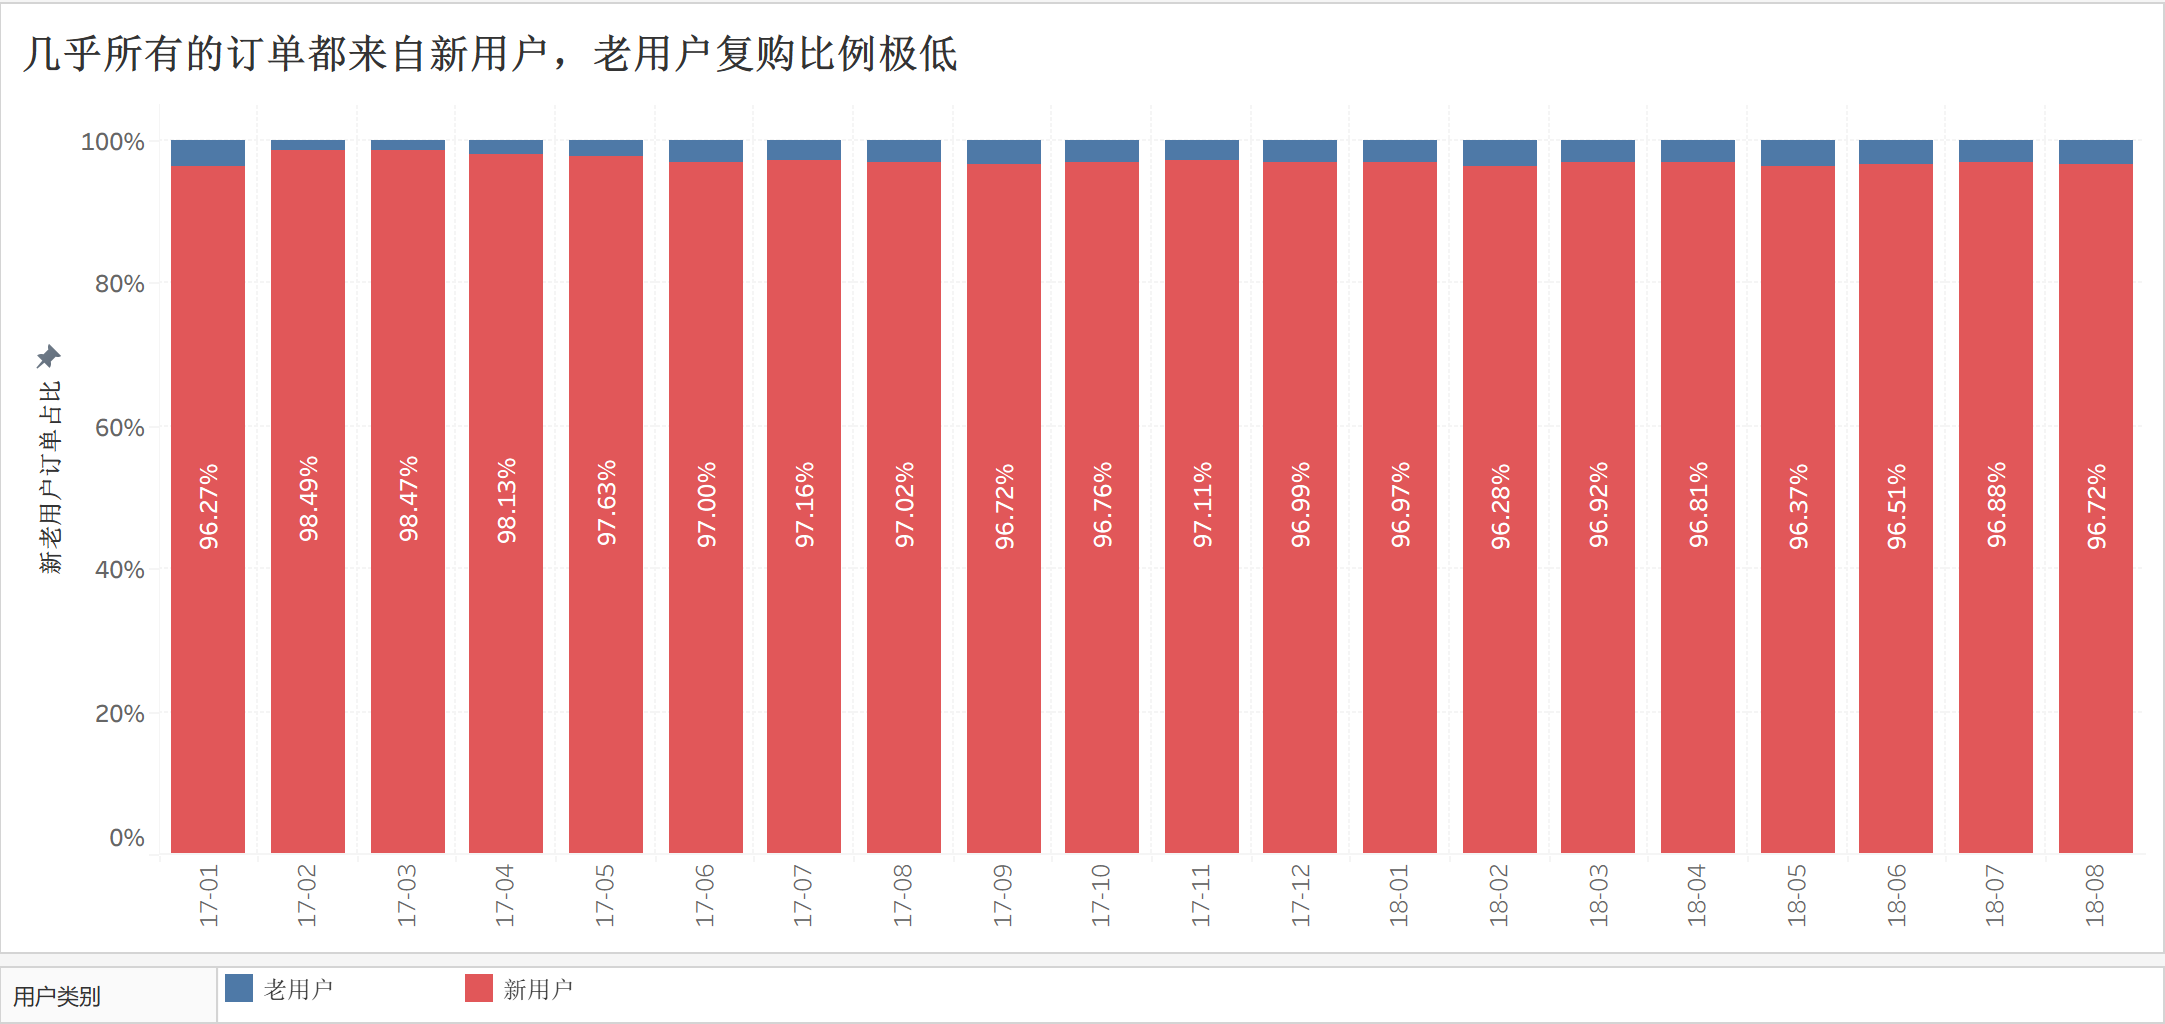
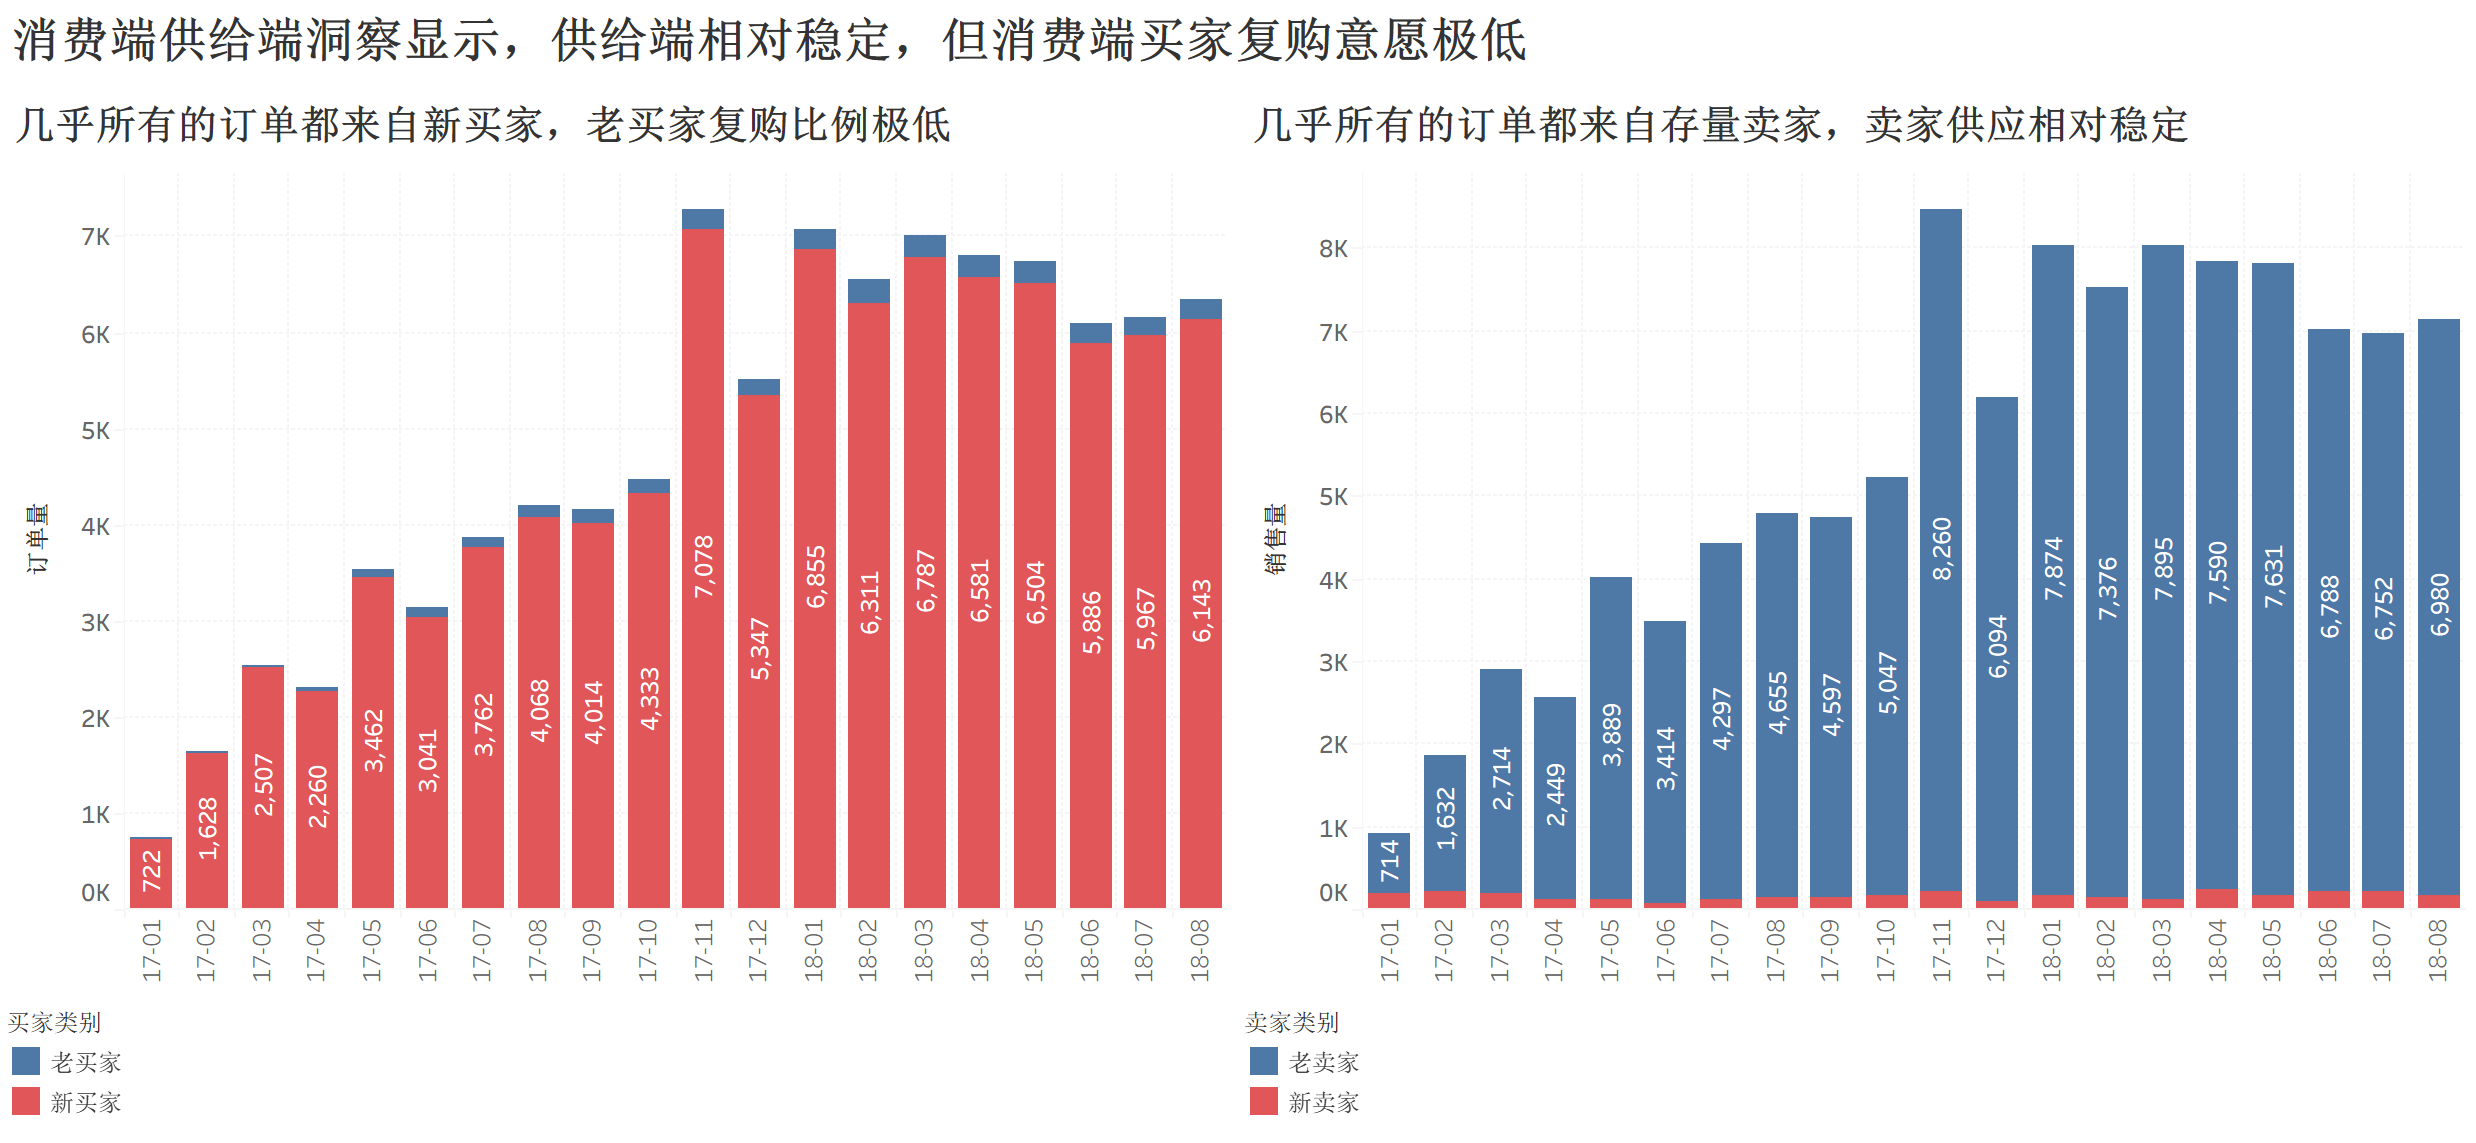
update

diff --git a/_posts/2026-01-11-data-analytics-case-olist.md b/_posts/2026-01-11-data-analytics-case-olist.md
@@ -200,7 +200,9 @@ freight_value                                                         float64  1
 
 ![olist_bi_gmv](./../assets/img/olist_bi_gmv.png)
 
-发现问题后，需要找问题根因，手段是进一步拆分 GMV，看到底是哪个子指标导致 GMV 持续走低。
+**北极星问题**：为什么 GMV 增长动力不足
+
+回答这个问题，需要进一步拆分 GMV，看到底是哪个子指标导致 GMV 持续走低。
 
 这里的拆分方式有很多，但是根据 MECE 原则，一般优先把 GMV 拆分为 $订单量 \times 订单均价$。
 
@@ -208,23 +210,39 @@ freight_value                                                         float64  1
 
 ![olist_bi_gmv_split](./../assets/img/olist_bi_gmv_split.png)
 
-也就是说，GMV 的异常趋势主要是订单量出了问题。那为什么订单量会出问题。
+也就是说，GMV 的异常趋势主要是因为订单量的增长动力不足。
 
-考虑到 Olist 当时作为初创公司的背景，可以往两个方面考虑：新用户少了或者老用户走了。
+**问题 1**：为什么订单量增长动力不足
 
-所以我们可以进一步拆分：$订单量 = 新用户订单 + 老用户订单$
+**猜想 1.1**：消费端增长动力不足，新买家少了或者老买家走了
 
-**列出新老用户订单量的逐月占比，可以清晰地观察到，几乎所有订单都来自新用户，老用户复购比例极低。**
+**猜想 1.2**：供给端供应能力不足，新卖家少了或者老卖家走了
+
+所以我们可以进一步拆分：$订单量 = 新买家订单 + 老买家订单$ 或 $订单量 = 新卖家订单 + 老卖家订单$
+
+列出新老买家订单量的逐月占比，可以清晰地观察到，问题出在消费端：
+
+**几乎所有订单都来自新买家，老买家复购意愿极低，这种模式下，新买家开发到瓶颈后，消费端乏力会自然显现。**
+
+**猜想 1.1 证实，猜想 2.2 证伪。**
 
 ![olist_bi_user_type](./../assets/img/olist_bi_user_type.png)
 
-那现在的问题就更清晰了，新用户开发接近瓶颈，但老用户又留不下来。那用户为什么不复购呢？
+**问题 2**：为什么买家不原意复购
 
-用户不复购的理由无非就两方面：商品本身不需要频繁复购或者购买体验差导致不愿意再复购。
+**猜想 2.1**：商品本身不需要频繁复购
 
-**对比新老用户的商品购买偏好，可以发现没有明显区别，但买的东西大多数都是耐用品，本身复购率就比较低。**
+**猜想 2.2**：购买体验差导致不愿意再复购。
 
-![](./../assets/img/olist_bi_product_cate.png)
+首先分析商品本身耐用性的问题，看看是不是买的东西就是比较耐用，不用复购。
+
+对比新老买家的商品购买偏好，发现没有明显区别，但问题出在：
+
+**买家买的东西大多数都是耐用品，本身复购率就比较低。**
+
+**猜想 2.1 证实。**
+
+![olist_bi_product_cate](./../assets/img/olist_bi_product_cate.png)
 
 | 英文分类名      | 中文含义                 | 产品属性      | 复购频率                                                  |
 | --------------- | ------------------------ | ------------- | --------------------------------------------------------- |
@@ -234,11 +252,29 @@ freight_value                                                         float64  1
 | health_beauty   | 健康美容（仪器、化妆品） | 消费品        | **中**。虽然护肤品是消耗品，但 Olist 上有很多是美容仪器。 |
 | housewares      | 家用器具（厨具、小家电） | 耐用品        | **低**。锅铲、烤箱等家电除非损坏，否则很少复购。          |
 
-另一方面，看看那些非满分评价主要是在抱怨什么。
+然后分析用户体验的问题，主要关注差评，发现：
+
+**很多买家的购物体验也并不好。**
+
+**猜想 2.2 证实。**
 
 ![olist_bi_review_score](./../assets/img/olist_bi_review_score.png)
 
-这里需要 NLP 接入进行情感分析，和主题词提取。
+**问题 3**：为什么买家不愿意在平台上购买易耗品
+
+**假设 3.1**：运费太贵，不值得在平台上买
+
+> 验证假设 3.1 需要物流公司的收费标准，数据源没有提供相关数据，这里不进一步验证。
+
+**假设 3.2**：物流太慢，满足不了短期需求的时效性要求
+
+**问题 4**：为什么买家的购物体验不好
+
+**假设 4.1**：商品本身问题（质量、虚假宣传、挂羊头买狗肉等）
+
+**假设 4.2**：物流问题（物流延期、暴力分拣、货物丢失等）
+
+刚刚提出的三个假设可以一起验证，这里需要 NLP 介入对订单评论进行情感分析和主题词提取。
 
 ```python
 import os
@@ -324,6 +360,11 @@ if __name__ == '__main__':
     sense_analysis()
 ```
 
+**分析结果显示卖家的差评主要来自：少发货、物流延迟、暴力分拣等。**
+
+**猜想 3.2、4.1、4.2 证实。**
+
+
 | **主题 ID** | **样本数量** | **主题标签 (Name)**  | **关键词 (Representation)**        | **代表性评论内容 (中译)**                                    |
 | ----------- | ------------ | -------------------- | ---------------------------------- | ------------------------------------------------------------ |
 | **-1**      | 8875         | **未分类/综合投诉**  | 产品, 购买, 物流, 店铺, 收到, 期限 | **"订单显示已送达但我没收到"**, "提前送达且质量很好", **"只收到了两个中的一个"** |
@@ -347,13 +388,11 @@ if __name__ == '__main__':
 | **17**      | 146          | 物流极速             | 快速, 效率, 速度, 超快, 服务       | "物流非常快", "送货效率很高"                                 |
 | **18**      | 138          | **退款/未收到**      | 收到, 没收到, 退款, 完整           | **"没收到产品", "要求全额退款"**                             |
 
-使用 BERTopic 进行自然语言情感分析后，发现买家的抱怨主要集中在物流方面，我们需要进一步衡量物流指标。
+**对差评卖家进行帕累托分析，发现差评的分布是极其分散的，不存在害群之马的卖家。**
 
-**观察到，实际的数据没有预想的糟糕，多数时候还是可以准时送达的，但抗风险能力显示出进一步提升的空间。**
+![olist_bi_bad_seller_pareto](./../assets/img/olist_bi_bad_seller_pareto.png)
 
-> 图中 17 年 11 月是黑色星期五，物流压力陡增导致延迟率上升；另外，18 年 2 月和 3 月是巴西物流工人大罢工，全国邮政基本停摆，属于不可抗力导致的物流延迟率上升。
-
-![](./../assets/img/olist_bi_is_delayed.png)
+## 物流问题数据分析
 
 根据巴西权威电商研究机构 Ebit/Nielsen 发布的《Webshoppers》年度报告（第 37-39 版）：
 
@@ -363,20 +402,31 @@ if __name__ == '__main__':
 
 ![olist_bi_transit_days_esti](./../assets/img/olist_bi_transit_days_esti.png)
 
-下一步着手分析物流时效的可增长点，观察隐藏在平均值背后的详细数据。
+既然源数据计算得到的准时率没有可信度，那就以行业平均水准再算一遍准时率。
 
-**观察发现，仍有接近半数订单的妥投时间未达行业平均水平，这是一个增长机会。**
+**果然，有接近半数订单的妥投时间未达行业平均水平，这是一个明显增长机会。**
 
 ![olist_bi_is_std_delayed](./../assets/img/olist_bi_is_std_delayed.png)
 
-下一步分析的方向自然是从客户下单开始，到底哪个环节拖后腿，导致物流延迟。
+那些不及行业平均水准的订单，从用户下单到妥投，中间是哪个环节拖了后腿？
 
-**数据发现，如果能将物流运输耗时压缩至行业平均水平，平台准时交付率将有约 50% 的提升空间。**
+**从数据来看是物流运输环节最耗时，达到了 15~21 天，占总耗时的超过一半，另外，4~5 天的卖家处理时间也很难说得上是高效率。**
 
 ![olist_bi_limit_times](./../assets/img/olist_bi_limit_times.png)
 
-物流效率的提升一般考虑两个方面：分拣中心提效和远端仓储建设。
+这里分支出两条分析思路：一方面需要分析物流时间为什么这么长，另一方面需要分析卖家处理时间为什么这么长。
 
-**对延迟订单的可视化分析同样表明：东南部圣保罗首都圈分拣中心承载了全国物流压力，导致近端物流出现长时间延迟，同时，东北部远端地区受限于物理距离和基础设施建设不足，同样出现超长延期订单**
+**对延迟订单的可视化分析表明：**
+
+- 巴西南部圣保罗首都圈承载了全国的物流压力，少量近端物流出现长时间延迟*（红色粗线）*
+- 除了首都圈之外，长时间延迟的订单还出现在巴西东部
+
+- 其他地域（西部、北部）的延迟订单数量很少
 
 <img src="./../assets/img/olist_kepler_delayed.png" alt="olist_kepler_delayed" style="zoom:50%;" />
+
+结合巴西全国各地域的订单需求占比图，可以谨慎地得出以下结论：
+
+**圣保罗首都圈的物流分拣中转中心的数量和质量不足以承载全国的物流压力，这是当前出现物流延迟的根因。**
+
+<img src="./../assets/img/olist_bi_region_order.png" alt="olist_bi_region_order" style="zoom: 67%;" />
